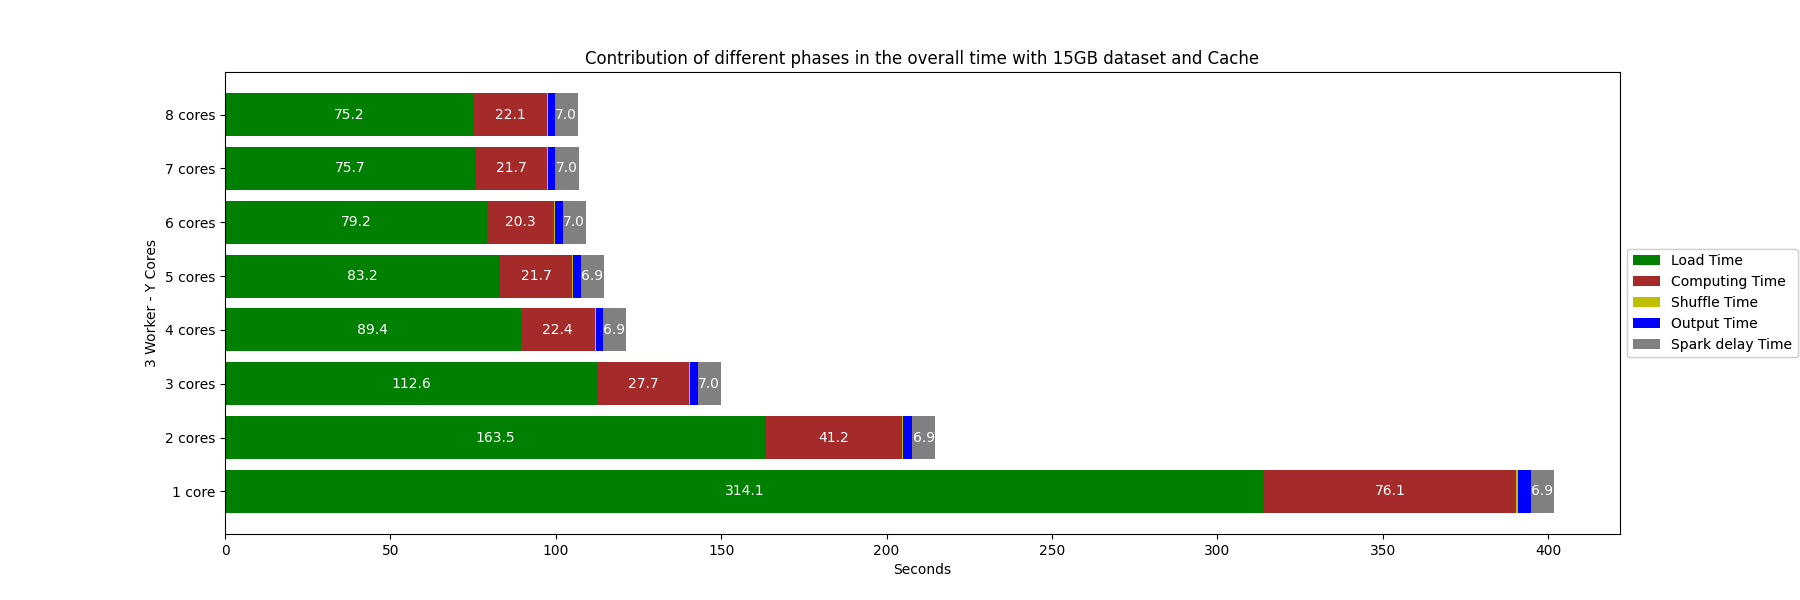
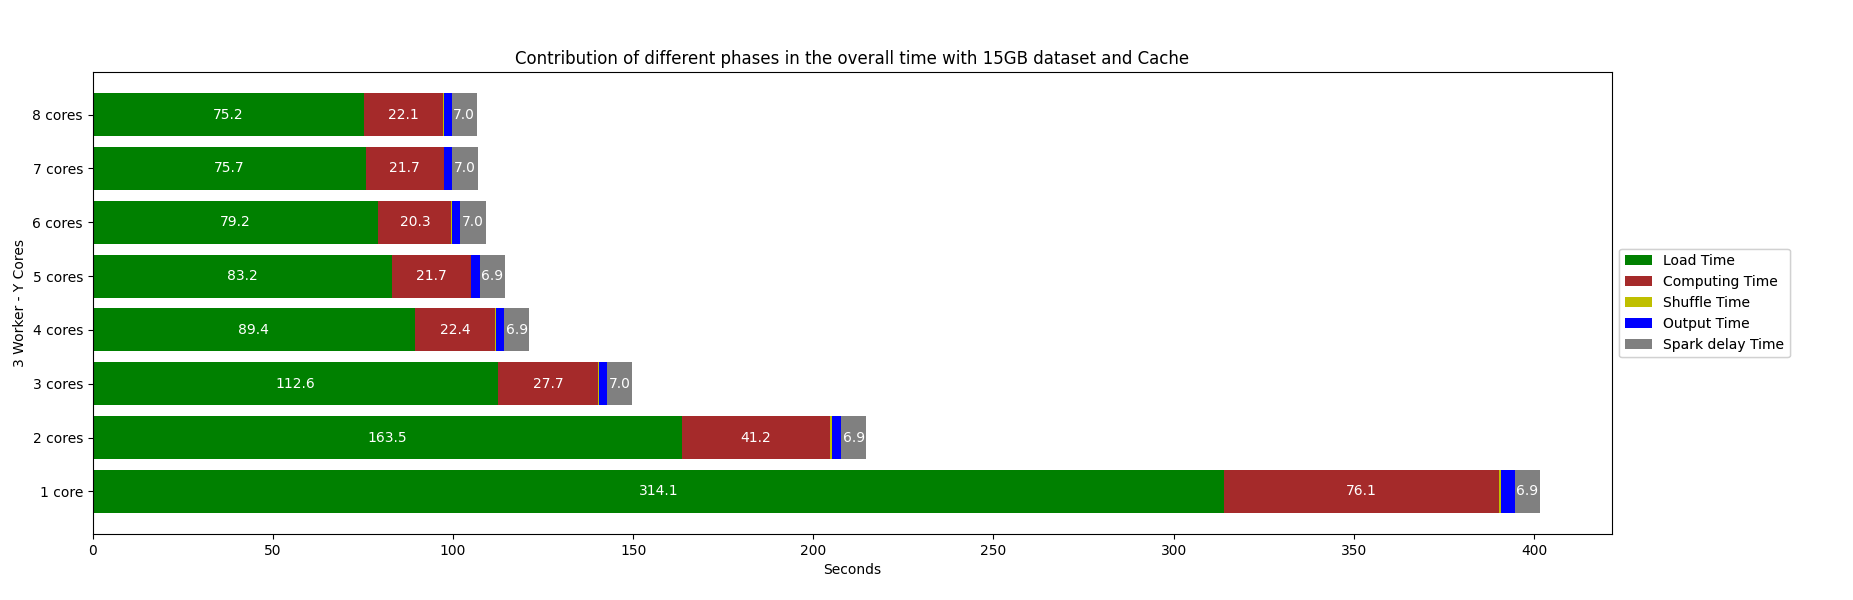
updated left/right margin on other plots for test_m5

diff --git a/test_m5_2xlarge/plot_multiple_queries_no_cache.py b/test_m5_2xlarge/plot_multiple_queries_no_cache.py
@@ -35,7 +35,8 @@ for q in range(9):
 		file_ovnc.close()
 		file_readnc.close()
 
-fig = plt.figure(figsize=(20,8))
+fig = plt.figure(figsize=(20,6))
+fig.subplots_adjust(left=0.05,right=0.87)
 ax = fig.add_subplot(111)
 ax.plot(queries, average_overall_time, label='Overall T.[No Cache]', color='blue')
 ax.plot(queries, average_read_time, label='Read T.[No Cache]', color='green')

diff --git a/test_m5_2xlarge/plot_stacked_chart.py b/test_m5_2xlarge/plot_stacked_chart.py
@@ -85,7 +85,8 @@ print(jobs_time)
 computing_time=[j-l-s-out for j, l, s, out in zip(jobs_time, load_time, shuffle_time, output_time)]
 spark_delay = [ov-jobs for ov, jobs in zip(overall_time, jobs_time)]
 print(computing_time)
-fig = plt.figure(figsize=(18,6))
+fig = plt.figure(figsize=(20,6))
+fig.subplots_adjust(left=0.05,right=0.87)
 ax = fig.add_subplot(111)
 
 

diff --git a/test_m5_2xlarge/plot_multiple_queries.py b/test_m5_2xlarge/plot_multiple_queries.py
@@ -38,6 +38,7 @@ for q in range(9):
 		file_readnc.close()
 
 fig = plt.figure(figsize=(20,6))
+fig.subplots_adjust(left=0.05,right=0.87)
 ax = fig.add_subplot(111)
 ax.plot(queries, average_overall_time, label='Overall T.[Cache]', color='red')
 ax.plot(queries, average_read_time, label='Read T.[Cache]', color='y')

diff --git a/test_m5_2xlarge/plot_multiple_queries_cache.py b/test_m5_2xlarge/plot_multiple_queries_cache.py
@@ -36,6 +36,7 @@ for q in range(9):
 		file_readnc.close()
 
 fig = plt.figure(figsize=(20,6))
+fig.subplots_adjust(left=0.05,right=0.87)
 ax = fig.add_subplot(111)
 ax.plot(queries, average_overall_time, label='Overall T.[Cache]', color='red')
 ax.plot(queries, average_read_time, label='Read T.[Cache]', color='y')
